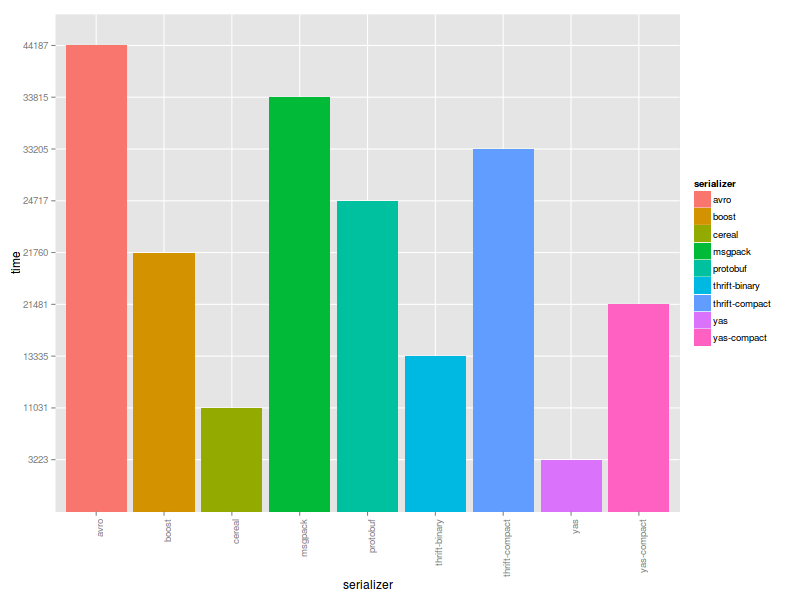
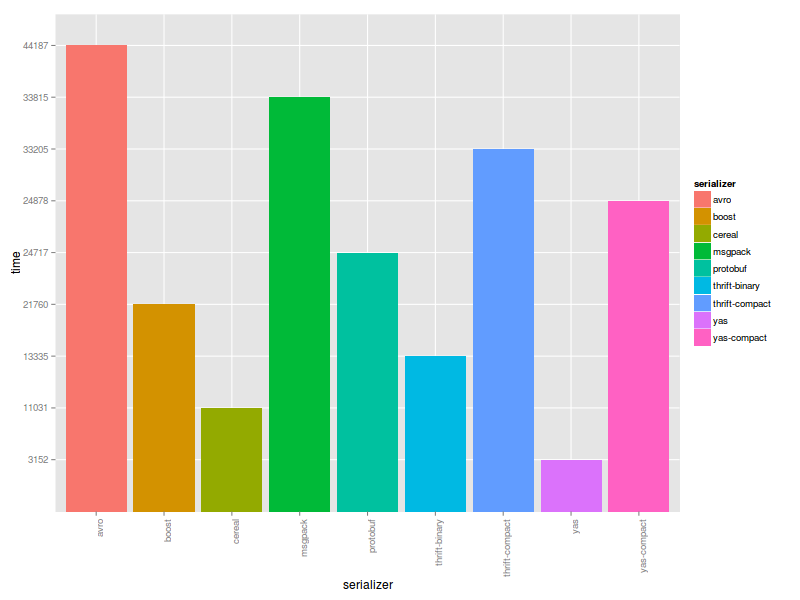
YAS updated to 6.0.2

diff --git a/README.md b/README.md
@@ -52,7 +52,7 @@ on a typical desktop computer with Intel Core i5 processor running Ubuntu 14.04.
 * avro 1.8.2
 * capnproto 0.6.1
 * flatbuffers 1.7.1
-* YAS 5.0.0
+* YAS 6.0.2
 
 | serializer     | object's size | avg. total time |
 | -------------- | ------------- | --------------- |
@@ -63,8 +63,8 @@ on a typical desktop computer with Intel Core i5 processor running Ubuntu 14.04.
 | msgpack        | 13402         | 33815           |
 | cereal         | 17416         | 11031           |
 | avro           | 16384         | 44187           |
-| yas            | 17416         | 3223            |
-| yas-compact    | 13553         | 21481           |
+| yas            | 17416         | 3152            |
+| yas-compact    | 13321         | 24878           |
 
 ###### Size
 
